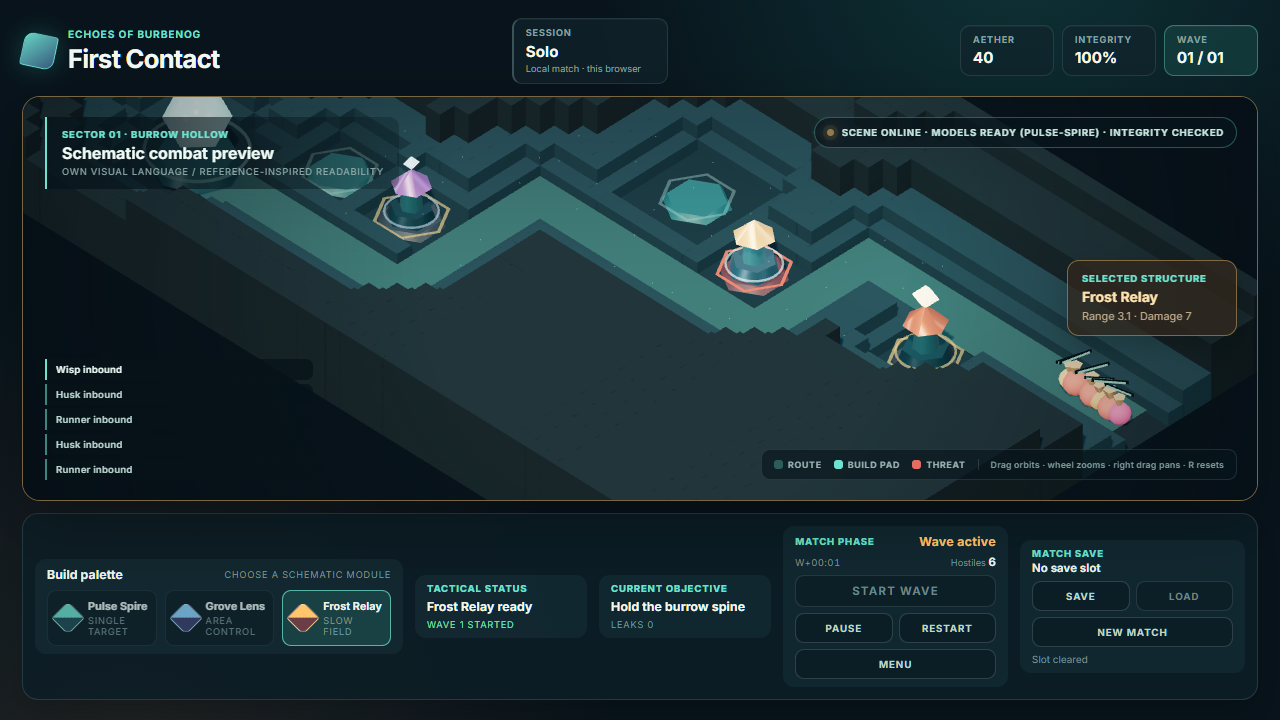
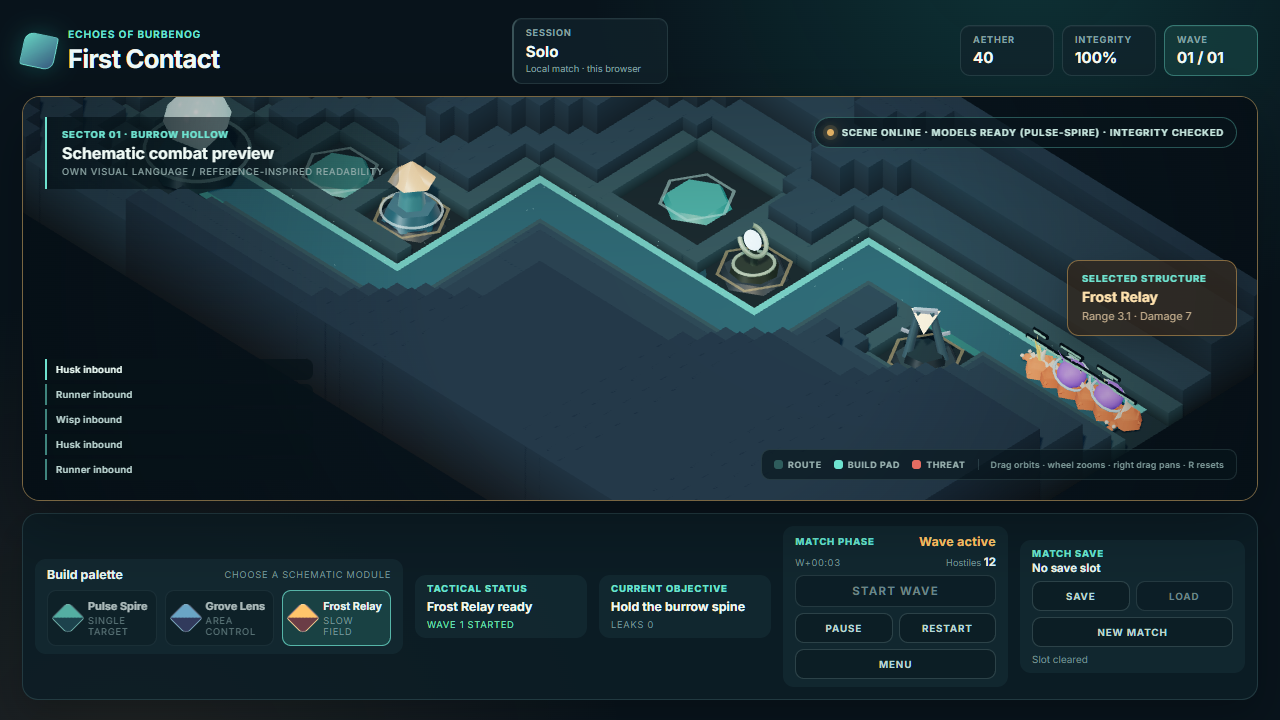
Принять 0022, 0023 и 0024 и привести документацию к виду
Три визуальные работы закрыты одним заходом. Проверено на текущем main со всеми тремя: typecheck, build зелёные, test:core те же victory/401/229, test:assets те же 11 красных, артефакт побайтово прежний, npm test 48/48 — это первый полный прогон после параллельного захода, до него каждая сессия проверяла в изоляции.

Скриншоты пересняты: старый вид не соответствует ни одному кадру, пять из них стоят в README. Кадр загруженного матча снят с подтверждённой загрузкой, прибывшей ровно на запрошенный тик 1838.

В контекст добавлены три строки состояния (вид врагов, башен, карты) и шесть открытых проблем: невидимый кристалл настоящей модели с 0009, seam padScreenPositions с координатами канваса под именем экранных, раздвоенная высота дороги между модулями, нечитаемость вида на игровом масштабе, исчерпанный бюджет форм и слипание хасков волной.

В решениях — почему параллельность по модулям сработала и чего не дала: границы держатся, чужой баг найден, общий тон не задан, и разведение шло против палитры врагов, а не против готового кадра.

diff --git a/docs/CONTEXT.md b/docs/CONTEXT.md
@@ -1,6 +1,6 @@
 # Echoes of Burbenog — CONTEXT
 
-> Последнее обновление: 2026-09-28 (`0021` принята, номера освобождены, документация закреплена за штабом)
+> Последнее обновление: 2026-09-28 (приняты `0022`–`0024`: вид врагов, башен и карты; `0021` закрыта)
 
 ## Порядок работ, названный владельцем 2026-09-28
 
@@ -29,7 +29,10 @@
 | Репозиторий | Публичный | GitHub remote открыт по решению владельца, ветка `main` синхронизирована; лицензия не выбрана, поэтому по умолчанию действует «all rights reserved» — `EOB-008` |
 | Документация | В актуальном состоянии | README, инструкции, архитектура, решения и план приведены к карте-коридору и камере; сессия `0019`+`0020` обновила все пять документов вместе с кодом |
 | Целевая платформа | Зафиксирована | Windows 10/11; performance budgets уточняются |
-| Gameplay prototype | Полный цикл в браузере | Bootstrap, pure simulation, placement по pads и combat presentation: запуск волны, движение, targeting, damage, victory/defeat в одном сценарии. С `0019` карта перестала быть плоскостью: одна дорога, ниши в массиве, решение о башне принимается |
+| Gameplay prototype | Полный цикл в браузере | Bootstrap, pure simulation, placement по pads и combat presentation: запуск волны, движение, targeting, damage, victory/defeat в одном сценарии. С `0019` карта перестала быть плоскостью: одна дорога, ниши в массиве, решение о башне принимается. **С `0022`–`0024` у каждой сущности и у коридора есть форма, а не оттенок:** три вида врага различимы силуэтом, три башни различимы силуэтом, канал читается светящимся кантом, камень различен по высоте через цвет вершин. Матч по-прежнему 20–35 секунд и одна волна — это следующая работа |
+| Вид врагов | Проверен | `0022`: `husk` широкий низкий танк 0.78 × 0.47 с ярусным панцирём, клинком на спине и головой ниже палубы; `runner` тонкий дротик 0.27 × 0.80 с наклоном вперёд, клювом, хвостом и ногами; `wisp` гранёный шар 0.86 × 0.92 в наклонённом ореоле, на хвосте почти над дорогой, корона из пяти шипов, единственный кто не касается земли корпусом. Поворот по ходу приходит из снапшота, полоса здоровья квадратна миру и своя длина у вида, части вида слиты в две геометрии (четыре меша, как и было), idle у каждого вида свой и гасится при reduced motion. Замерено: `enemyPositions` совпадают со снапшотом до 1e-3, `enemyBob` ровно 0 шесть замеров подряд при 16 живых, геометрия освобождается (15 объектов до волны и 15 после), замедление видно на A/B. **Не видно на игровом масштабе** — `EOB-034` |
+| Вид башен | Проверен | `0023`: `grove-lens` низкая широкая оправа с линзой внутри и просветом, наклонена назад; `frost-relay` открытая А-рама с гемом под перекладиной; `pulse-spire` сплошная вертикаль. У каждой своя палитра корпуса, масштаб, посадка и idle-жизнь. Луч выстрела идёт из мировой позиции светящегося кристалла, а не из фиксированной высоты над падом, поэтому уходит из видимой части башни; вспышка стала затухающей с пиком 6.6 и дыханием вниз от 2.4; `pulse-spire` только посадка через узел `seat` под группой, чтобы масштаб и наклон не спорили с наведением за ось. Плата: +3 вызова, +498 треугольников, +4 материала, программ шейдера столько же. **Найдено и не тронуто: кристалл загруженной модели не рисуется** — `EOB-031` |
+| Вид карты | Проверен | `0024`: идея «свет падает в канал». Канал — тёмное дно плюс светящийся кант 0.17 вдоль обеих кромок, обрывающийся у входа в нишу и у входа в камеру ядра, поэтому поворот читается как резкий поворот линии, а не смена оттенка. Камень: четыре высоты больше не делят два материала, различие живёт в цвете вершин (рампа 1.16 → 0.55 с остыванием в синий, подошва вчетверо темнее, верхняя кромка в 1.34 светлее), кромка террасы держится от любого угла. Выемки — пол темнее дороги, светящаяся рамка по краю ниши как единственная маркировка «здесь ставят башню», два кольца в камере ядра. Пыль сэмплирована вдоль дороги. Плата: +5 вызовов, +172 треугольника, +1 программа. Не тронуто и проверено: 78 блоков, 336 клеток, покрытие и кадр побитово как на `HEAD`, 24 азимута без единого перекрытия пада |
 | Карта-коридор | Проверен | Маршрут `burrow-spine`: 6 точек, 5 сегментов, 4 поворота, 26 единиц, ширина 1.2, карта 22×14, ядро в камере радиуса 1.6 в тупике и конец маршрута совпадает с ядром. Пять ниш, массив вырезан из одного растра 0.4 вместе с дорогой, 78 прямоугольников в двух мешах, террасы по глубине в камне (0.34/0.68/1.4/1.95). Валюта проектирования — покрытие коридора: угловая ниша 8.6 при Frost 3.1, самая дальняя 1.95 при Grove 2.4, то есть ниши не равны и расстановка решает (победа 340–647 тиков в зависимости от мест, поражение без башен на 753) |
 | Камера | Проверен | Орбита drag'ом, зум колесом (0.5–3.2), панорама правым drag'ом в плоскости карты, сброс на `R`, подсказка в легенде. Ортографическая, дистанция фиксирована: туман, near/far и тени настроены под неё. Масштаб меряется по открытым клеткам канала, а не по прямоугольнику вокруг него, и не меняется при повороте — поворот двигает кадр, колесо меняет масштаб намеренно. Кадр смещён на 5% вниз, чтобы ядро не открывалось под подписью сектора. `ResizeObserver` на сцене вместо `window.resize`: док меняет высоту сцены сам, и кадр уезжал. Состояние вида в seam (`mapGeometry.rig`, `frame`, `fit`) — часть входа в QA-сценарий |
 | Picking | Проверен | Один луч по нишам и камню вместе, ближайшее попадание решает: камень перед нишей означает промах. Плоскость с фиксированным радиусом 0.85 и её `techdebt`-заметка убраны — при управляемой камере это была бы постройка в невидимом месте. Террасы массива симметричны (высота зависит только от глубины в камне), иначе стена вставала бы поперёк дороги при повороте; измерено: на 0–180° ни одна из пяти ниш ни разу не перекрыта скалой |
@@ -81,7 +84,13 @@
 | EOB-009 | P1 | Решить, остаётся ли Go/Wails только упаковкой или также используется для dedicated server. С `0017` вопрос измерим: сессия на `node:http` держит комнату и 20 тиков/с на комнату без единой зависимости, а transport выбран как SSE плюс POST вместе с отклонённой альтернативой `ws` |
 | EOB-010 | P2 | Session-level replay (restore из snapshot против command log) не решён: client QA replay работает на command log + seed, и `0015` закрепил это же как ответ для локального слота, но для server-сессии нужен отдельный выбор |
 | EOB-012 | P2 | Усилить E2E: content-bound selectors, entityId-сопоставление позиций, реальные route-счётчики, typed event и console assertions |
-| EOB-014 | P0 | Разнести монолитный `src/main.ts` на модули презентации. **Выдана как `0021`**: `src/client/map.ts`, `towers.ts`, `enemies.ts`, `combat-fx.ts`, `shared.ts`. Причина — не размер файла, а блокировка: владелец ведёт карту, башни и врагов параллельно, все три правят один файл. Общий модуль существует ради `PROBE_WEIGHTS` и `disposeInstance`, боевые эффекты выделены отдельно, потому что вспышка убийства и луч выстрела нуждаются в позиции чужого вида. `__ECHOES_DEBUG__` сохраняется целиком — 93 ссылки из сценариев. **Закрыта `0021`:** `main.ts` 4559 → 3347 строк, пять модулей, поведение не тронуто, 48/48 сценариев зелёные; три параллельные работы по модулю теперь не сталкиваются за один файл |
+| EOB-014 | P0 | Разнести монолитный `src/main.ts` на модули презентации. **Закрыто `0021` и проверено `0022`–`0024`**: `src/client/map.ts`, `towers.ts`, `enemies.ts`, `combat-fx.ts`, `shared.ts`. Причина — не размер файла, а блокировка: владелец ведёт карту, башни и врагов параллельно, все три правят один файл. Общий модуль существует ради `PROBE_WEIGHTS` и `disposeInstance`, боевые эффекты выделены отдельно, потому что вспышка убийства и луч выстрела нуждаются в позиции чужого вида. `__ECHOES_DEBUG__` сохраняется целиком — 93 ссылки из сценариев. **Закрыта `0021`:** `main.ts` 4559 → 3347 строк, пять модулей, поведение не тронуто, 48/48 сценариев зелёные; три параллельные работы по модулю теперь не сталкиваются за один файл |
+| EOB-031 | P1 | **Кристалл загруженной модели `pulse-spire` не рисуется.** Найдено на приёмке `0023`, не её регрессия: узел жив (`visible`, эмиссия 2.4, мировая позиция верная, клип играет, поза доходит до seam), процедурная замена рисует гем. Отсутствует и на принятом снимке `wave-combat-midwave.png` до `0022`–`0024`, то есть баг с `0009`. Итог для игры: у настоящей башни нет видимой вспышки при выстреле, остаётся только луч. Не чинилось: конвейер ассетов был заморожен, а по симптому не сказать, чья это часть — модель, клон или подмена |
+| EOB-032 | P2 | **`padScreenPositions` в seam отдаёт координаты относительно канваса, а не окна.** Обработчик клика ждёт координаты окна и вычитает `rect.left/rect.top`, поэтому продукт и тесты правы, а имя поля вводит в заблуждение. Единственный потребитель в репозитории — хелпер `clickPad` в сценариях — компенсирует сложением бокса, то есть контракт известен только из одного места вызова. На этом попался штаб при съёмке кадров. Лечится одной строкой в `projectPadToCanvas` и снятием компенсации в хелпере, но правка seam ломает 48 сценариев, поэтому это отдельная работа вместе с ними |
+| EOB-033 | P2 | **`ENEMY_BASE_Y` и `PATH_Y` — один факт в двух модулях.** `0022` перевела высоту тела врага на высоту ленты дороги (0.28 → 0.08), но лента принадлежит `map.ts` как `PATH_Y`, а файл был чужой, поэтому число зашито вручную. Следствия уже видны: кольцо убийства опустилось с 0.36 до 0.16, попадание выстрела с 0.58 до 0.38. Правильная форма — экспорт из `map.ts` и передача в `createEnemies`, то есть правка двух модулей и точки сборки. Причина долга моя: граница модулей проведена по строкам кода, а не по фактам |
+| EOB-034 | P2 | **Вид на игровом масштабе не читается.** Замерено на листе-образце (`tools/look`): при 50.5 пикселя на единицу, то есть при том масштабе, с которого открывается матч, существо — цветное пятно, и самым заметным элементом врага оказывается его полоска здоровья. Работа `0022` над силуэтами на этом масштабе не окупается ничем. Либо камера должна быть ближе к бою, либо силуэты должны читаться в пятне — что из двух, решает владелец, и это разговор о стиле, а не задача |
+| EOB-035 | P2 | **Бюджет форм исчерпан: пять объектов на две категории силуэта.** `husk` широкий низкий, `grove-lens` — тоже низкая широкая оправа; `runner` высокий, `frost-relay` — А-рама, `pulse-spire` — сплошная вертикаль. Столкновение `grove-lens` с `wisp` сессии уже развели, но категорий всего две, и следующий объект снова упрётся. Плюс найдено на живом кадре: `grove-lens` ушёл в бледный шалфей, разводя его с палитрой врагов, и на этом фоне он сливается с бирюзовым камнем карты — разведение шло против палитры врагов, а не против готового кадра |
+| EOB-036 | P2 | **Семь хасков слипаются в пятно.** Контент, а не вид: волна спавнит их каждые 14 тиков при скорости 0.72, между ними 0.5, а существо шириной 0.78. Подтверждено на кадре середины волны. Никакая работа над видом врага это не чинит, пока не изменится волна |
 | EOB-016 | P2 | Asset contract валидирует только модели, собранные генератором, и проверяет структуру, а не источник; модели из внешнего редактора потребуют отдельного контура проверки и provenance |
 | EOB-017 | P2 | Замер fixed-step clock в E2E идёт сразу за fullPage screenshot и меряется через round-trip: stall >500 ms даёт ложный fast-forward. Наблюдалось на холодном прогоне и на загруженной машине; лечится переносом измерения внутрь страницы. С `0014` pause/resume переведены на page-side отметки, с `0016` — сценарий Load; остальные измерения часов в suite надо проверить тем же способом. С `0017` 29 сценариев suite ждали canvas с дефолтными 5 s — это та же ошибка формы, только про boot, и она уехала в `EOB-025`. С fix `0018` закрыт ещё один случай того же класса: сценарий подтверждённого `New match` держал свежую preparation «на нулевом тике» решёткой кадров в 1 мс, а это утверждение о том, сколько времени занимает чтение извне; прибытие теперь читается отметкой в странице, и решётка из сценария слота ушла. Соседний сценарий — подтверждённый `New match` в `clears the slot only after a confirmed New match…` — остался на `QA_FROZEN_FRAME_SECONDS` и остаётся кандидатом на ту же правку |
 | EOB-020 | P3 | У тика в слота сохранения нет верхней границы: content её не задаёт, а правдоподобный, но огромный тик даёт долгую пересборку вместо отказа. Видно по идущему тику и badge прогресса, `New match` прерывает в любой момент. Если понадобится, граница берётся из content, а не выдумывается. С `0016` вход показывает тик слота до того, как игрок что-то с ним сделает, а стирание требует второго нажатия — но сама граница по-прежнему не введена и задача открыта |
@@ -172,6 +181,7 @@
 | 2026-09-28 | **Закрыты `0019` карта-коридор и `0020` камера с честным picking.** Коридор: маршрут `burrow-spine`, 6 точек, 4 поворота, 26 единиц, ширина 1.2, карта 22×14, ядро в камере радиуса 1.6 в тупике, пять ниш; массив вырезан из одного растра 0.4 вместе с дорогой, поэтому стена не может встать на дорогу, а ниша — оказаться замурованной, и обе карты строятся из одной истины. **Валюта проектирования — покрытие коридора, и она разная:** `niche-corner` 8.6 при Frost 3.1 (угол видит две дороги), `niche-bend` 8.8, `niche-mouth` 7.1, `niche-heart` 4.75, `niche-deep` 4.35, а у той же дальней ниши Grove 2.4 видит 1.95 — то есть ниши не равны, и расстановка снова решение: победа за 340–647 тиков в зависимости от мест, поражение без башен на 753. **Камера:** орбита drag'ом, зум колесом 0.5–3.2, панорама правым drag'ом в плоскости карты, сброс на `R`; ортокамера с фиксированной дистанцией, потому что туман, near/far и тени настроены под неё. **Масштаб не плывёт при повороте** — поворот двигает кадр, колесо меняет масштаб намеренно; плата названа в `EOB-029`. **Picking стал честным:** один луч по нишам и камню вместе, камень перед нишей означает промах, плоскость с радиусом 0.85 и её `techdebt`-заметка убраны. Отсюда террасы массива стали симметричными (высота зависит только от глубины в камне): асимметрия «нижний берег ниже, дальний выше» красива ровно с одного угла и ставит стену поперёк дороги при первом же повороте; измерено на 0–180°, что ни одна из пяти ниш ни разу не перекрыта скалой. **Кадр меряется по открытым клеткам канала, а не по прямоугольнику вокруг него** — прямоугольник почти весь камень, и подгонка под него либо срезала дорогу, либо отодвигала камеру так, что карта становилась маркой; та же ошибка стоила отдельного витка, потому что выглядела как «камера едет». **Найденная сессией ошибка в своей же реализации:** BFS на `pop()` — это обход в глубину, поле расстояний до.open оказалось длиной обхода, и террасы вышли змейкой; обход переписан на очередь с движущимся индексом. И вторая: `//` в `src/styles.css` — не комментарий, минификатор съедает следующий селектор, `npm run build` падает с `Invalid empty selector`, а `npm test` остаётся зелёным, потому что Playwright поднимает dev-сервер; ловушка записана в `AGENTS.md`. Кадр сцены пересчитывается по `ResizeObserver`, а не по `window.resize`: док меняет высоту сцены сам, и кадр уезжал. Evidence: `typecheck`, `build`, `test:core` — новые значения `status victory, tick 401, gold 229`, `test:assets` — те же 11 красных проверок, артефакт `sha256:32befa7a…` побайтово прежний, `npm test` 48/48 дважды подряд, `npx playwright test --repeat-each=2` 96/96, `git status` чистый, core-поля не расширялись, изменены только `src/game-core/scenario.ts`, `src/main.ts`, `src/styles.css`, `index.html`, `tests/smoke.spec.ts`, `scripts/check-simulation.ts` и screenshots. **Роль исправлена по требованию владельца:** эта сессия отработала кодовой там, где должна была быть штабом; роль штаба и механика выдачи заданий записаны в `AGENTS.md` и `PLAN`. Документация приведена к коду целиком: README, `AGENTS.md`, `PLAN`, `CONTEXT`, решение в `DECISIONS.md` и две поправки в `ARCHITECTURE.md`. Принято |
 | 2026-09-28 | **Кодовая сессия сдала `0021`: `src/main.ts` разбит на модули презентации, поведение не менялось.** `main.ts` 4559 → 3347 строк, пять новых файлов в `src/client/`: `map.ts` 593, `towers.ts` 493, `combat-fx.ts` 185, `enemies.ts` 133, `shared.ts` 97. **Причина разбивки — не размер, а блокировка:** владелец ведёт карту, башни и врагов тремя параллельными сессиями, и все три правят один файл. **Боевые эффекты вынесены в четвёртый домен**, потому что вспышка убийства рождается из события врага, луч выстрела — из события башни, и оба нуждаются в позиции чужого вида: `combat-fx` получает две позиции и не знает, что такое вид. **Общий блок существует ради двух вещей** — `PROBE_WEIGHTS` и `disposeInstance` нужны всем трём доменам, а пробра передаётся в него одним `setEnvironmentTexture` сразу после `PMREMGenerator`, потому что материал обязан владеть пробой по имени. **Часы не размножались:** `elapsed` и `presentationTime()` передаются модулям числами, а `reducedMotion` — флаг, который страница сообщает всем доменам одним местом; копия часов в двух модулях — это уже оплаченный класс дефекта из `0012`. **Отладочный объём собирает страница:** модули отдают свои чтения, `main` складывает тот же `__ECHOES_DEBUG__` с теми же именами — на него ссылаются 93 места в сценариях, поэтому seam это контракт, а его форма не тронута. Порядок кадра сохранён (snapshot → анимация доменов → `renderer.render`); единственный сдвиг — ядро рисуется с падами, а не после лучей, и оно не делит состояния ни с одним соседом. Найденная сессией ошибка в своей же реализации: в `enemies.animate` забыли обнулять `enemyBobOffset` в начале кадра, и показатель bob'а стал монотонно растущим вместо покадрового. Проверки: `typecheck`, `build`, `test:core` — те же `status victory, tick 401, gold 229`, `test:assets` — те же 11 красных проверок, артефакт `sha256:32befa7a…` побайтово прежний, `npm test` 48/48. Изменены только `src/main.ts` и пять новых файлов в `src/client/`, плюс `docs/ARCHITECTURE.md` и этот файл; core, content, протокол, сервер, `index.html`, стили и `tests/smoke.spec.ts` не тронуты, новых тестов нет. **Принята штабом.** Доказательство, что картинка не изменилась, попиксельное: `main.ts` подменён на версию из `HEAD`, снят тот же кадр на запиненном тике 205, PNG побайтово идентичен (349 329 B и 371 974 B на соседних тиках); совпали `objectCount`, весь `mapGeometry` с покрытием ниш, 12 ролей проб, `commandPlan`, позиции 3 башен и 14 врагов, `towerModels` с позой клипа, суммы событий и `shotsFired`. **Замечание для трёх следующих работ:** тихая ошибка с `reducedMotion` — ядро продолжало пульсировать при включённом reduced motion — поймана сравнением кадров, а не 48 сценариями: они проверяют `enemyBob` и вспышки, но не пульс ядра. На этом классе работ сравнение кадров полезнее набора сценариев. Плохие решения, зафиксированные и не тронутые: `disposeInstance` освобождает геометрию, которой не владеет, и спасает только отдельный `release()` у model-view; `upgradeWithModels` считает слот башни заново через `indexOf` в порядке вставки, поэтому «слот — это порядок постройки» перестаёт быть верным после исчезновения любой башни, то есть поломается, когда появится продажа или апгрейд на месте |
 | 2026-09-28 | **Освобождены номера, документация закреплена за штабом.** Замороженный блок мультиплеера, internet services и desktop переехал с 0023-0028 на 0030-0035: он держался за номерами из исключения в нумерации, а исключение снято, теперь правило простое — следующий номер это последний принятый плюс один, и отложенные работы номеров не занимают. Плата оказалась сметной: 18 ссылок, из них пять в историческом журнале, их не переписывали, потому что журнал записывает, что тогда было. Черновик по первому пункту блока переименован в docs/tasks/0030-match-rules-and-economy.md. Решение владельца от 2026-09-28: кодовая сессия не трогает проектную документацию (PLAN, CONTEXT, DECISIONS, ARCHITECTURE, AGENTS, чужие файлы задач), отчёт пишется целиком в свой файл задачи, штаб читает его, проверяет и сам обновляет документацию. Причина не в порядке: сессии идут параллельно по разным модулям, и общий файл документации стал бы местом конфликта. Коммиты и push разрешены на постоянной основе |
+| 2026-09-28 | **Приняты `0022` вид врагов, `0023` вид башен, `0024` оформление карты — три параллельные сессии, по одному модулю каждая.** Механизм параллельности оправдал себя: три сессии тронули ровно три своих файла (`enemies.ts`, `towers.ts`, `map.ts`), `main.ts`, `shared.ts`, `combat-fx.ts`, ядро, скрипты, стили и тесты не тронуты ни одной строкой. `0022` — три существа вместо трёх оттенков одного шара: `husk` широкий низкий 0.78×0.47 с ярусным панцирем, `runner` тонкий дротик 0.27×0.80, `wisp` гранёный шар 0.86×0.92 в наклонённом ореоле, не касающийся земли; плюс поворот по ходу из снапшота, полоса квадратна миру и своя длина у вида, `ENEMY_BASE_Y` переведён на высоту ленты дороги 0.28 → 0.08. `0023` — три силуэта, луч выстрела идёт из видимого кристалла вместо фиксированной высоты над падом, вспышка стала затухающей с пиком 6.6, дыхание ушло вниз от 2.4, `pulse-spire` только посадка через узел `seat` под группой. `0024` — свет падает в канал: тёмное дно, светящийся кант 0.17 по обеим кромкам, обрыв у входа в нишу и у камеры ядра; четыре высоты камня больше не делят два материала, различие живёт в цвете вершин с рампой 1.16 → 0.55 и подкраской граней. **Столкновение, найденное между сессиями:** `0022` закрыла `wisp` ореолом, `grove-lens` сел на него же — башня не отличалась от врага; `0023` развела формой (кольцо → дуга 270°) и цветом (бледный шалфей), чужой файл не тронув. **Баг, найденный `0023` в своей области и не тронутый:** кристалл загруженной GLB-модели не рисуется — не на `HEAD` и отсутствует на принятом снимке, узел жив (`visible`, эмиссия 2.4, позиция верная, клип играет), то есть у настоящей `pulse-spire` нет видимой вспышки при выстреле с `0009`; причина в конвейере ассетов, который был заморожен. **Долг, названный `0022`:** `ENEMY_BASE_Y = 0.08` — это высота ленты дороги, а владеет ею `map.ts` как `PATH_Y`; число зашито в чужом по смыслу файле, потому что граница модулей проведена по строкам кода, а не по фактам. Проверено штабом на текущем `main` со всеми тремя работами: `typecheck`, `build` зелёные, `test:core` — те же `status victory, tick 401, gold 229`, `test:assets` — те же 11 красных, артефакт побайтово прежний, `npm test` 48/48. Найдено при приёмке: `padScreenPositions` в seam отдаёт координаты **относительно канваса**, а обработчик клика ждёт координаты окна, и поле называется «экранными» — единственный потребитель в репозитории, хелпер `clickPad` в тестах, это компенсирует сложением бокса; продукт и тесты правы, имя поля вводит в заблуждение, и на этом попался штаб при съёмке кадров. **Скриншоты** `docs/screenshots/` пересняты: старый вид не соответствует ни одному кадру, пять из них стоят в `README.md`; `entry-screen-empty`, `entry-to-victory`, `wave-combat-midwave`, `wave-combat-victory`, `vertical-slice-replay-reset`, `vertical-slice-match-load` — с текущего дерева, последний с подтверждённой загрузкой, прибывшей ровно на запрошенный тик 1838 |
 | 2026-09-27 | **Владелец остановил работу над мультиплеером.** Слой сессий не виден игроку, а за три дня у него одна карта, одна волна, 16 врагов, три башни, ноль снарядов, ноль звука и победа за две минуты. Мультиплеер, internet services и desktop (`0019`–`0024`) **заморожены** вместе со своими номерами, и пятая перенумерация отменена: на них ссылаются журнал и решения, а переписать историю ссылок дороже, чем держать исключение; исключение записано в шапке `PLAN`. Причина перекоса названа прямо: правило «каждое изменение должно иметь проверяемый результат» плюс запрет на визуальные проверки как на критерий дают доказуемое и невидимое, а `EOB-003` — «выбрать приоритетный subset механик из research brief» — висит открытым с первого дня, то есть сначала был выбран transport, а не игра. **Открыт игровой слой** с обратным порядком приоритетов: `0025` карта-коридор (одна дорога с поворотами, стены образуют ниши, строить только в нишах и не на дороге, ядро в конце; валюта проектирования — сколько коридора видит место), `0026` камера и честный picking вместо плоскости с фиксированным радиусом, `0027` прогрессия башни (уровни 1→3 и развилка, волк за убийство при пропуске), `0028` волны и сложность. Решения владельца, которые легли в задачи: убийство даёт золото, золото тратится на башни; башни на фиксированных местах, свободной расстановки нет; пады никогда не стоят на дороге; камера должна работать и управляться, «не зря у нас 3D». Отдельно: `test:core` перестаёт быть контрактом — `tick 323, gold 229` были артефактом обвязки и требовали перерезания на каждом изменении контента; требование красного прогона для слоя контента отменено, там критерий — что в это интересно играть. `PLAN` переписан из трекера-склада в трекер: 140 строк и 78 КБ дублирующих отчёты превратились в 98 строк и 8.7 КБ, всё содержательное ушло в файлы задач, где и было; правило 16 запрещает возвращать отчёты в `PLAN`.
 
 ## Структура проекта

diff --git a/docs/PLAN.md b/docs/PLAN.md
@@ -7,8 +7,8 @@
 > `docs/tasks/` (отчёты прошлых задач).
 >
 > Нумерация одна: сквозная, по порядку выдачи. Следующий номер — последний принятый плюс один.
-> Последний принятый — `0021`. Выданы `0022`, `0023`, `0024` одновременно, тремя параллельными
-> сессиями. Отложенные работы номеров не занимают.
+> Последний принятый — `0024`. `0022`, `0023` и `0024` выданы одновременно и приняты одним заходом.
+> Отложенные работы номеров не занимают.
 
 ## Что это
 
@@ -38,7 +38,7 @@ reconnect, генератор GLB с бюджетами, экран входа, 
 subset механик из research brief») висит открытым с первого дня: сначала был выбран транспорт, а не
 игра.
 
-## Что сделано — 0001…0021
+## Что сделано — 0001…0024
 
 Принято штабом, всё на месте. Отчёты и разборы — по файлу на задачу в `docs/tasks/`, хронология по
 дням — в `docs/CONTEXT.md`.
@@ -64,39 +64,31 @@ subset механик из research brief») висит открытым с пе
 - [x] 0019 — карта-коридор: одна дорога с поворотами, пять ниш в массиве, валюта — покрытие коридора
 - [x] 0020 — камера и честный picking: орбита, зум, панорама, сброс; камень перед нишей означает промах
 - [x] 0021 — разбиение клиента на модули презентации: `main.ts` 4559 → 3347 строк, пять модулей в `src/client/`
+- [x] 0022 — вид врагов: три различимых силуэта вместо трёх оттенков одного шара
+- [x] 0023 — вид и анимация башен: три силуэта, луч из кристалла, затухающая вспышка
+- [x] 0024 — оформление карты: свет в канале, кант по кромке, камень через цвет вершин
 
 Фазы как способ группировки убраны: их было одиннадцать, а работы четыре задачи, и при отложенных
 задачах фазовые номера начали спорить с номерами задач.
 
 ## В работе
 
-Последний принятый — `0021` (разбиение клиента на модули). Следующая выдача — `0022`, номер
-свободен.
+Последний принятый — `0024`. Следующая выдача — `0025`, номер свободен.
 
-- **Перед выдачей — разговор, не задача.** Владелец определяет стиль и идею игры. Три работы ниже
-  выданы без него, по решению владельца; риск назван вслух: три сессии без общего стиля дадут три
-  разные эстетики, и согласовывать их придётся после.
-- **`0022`–`0024` — три параллельные сессии, по модулю каждая.** Каждая владеет ровно одним
-  файлом в `src/client/` и не трогает ничего больше. Общий код (`shared.ts`), точка сборки
-  (`main.ts`), боевые эффекты, ядро, контент, стили, скриншоты и документация заморожены для всех
-  трёх — иначе они начнут драться за один файл, ради чего всё и затевалось.
-
-  | Номер | Работа | Владеет | Порт |
-  |-|-|-|-|
-  | `0022` | вид врагов | `src/client/enemies.ts` | 5174 |
-  | `0023` | вид и анимация башен | `src/client/towers.ts` | 5175 |
-  | `0024` | оформление карты | `src/client/map.ts` | 5176 |
-
-  Три места, где сессии могут помешать друг другу, и как это закрыто: `combat-fx.ts` импортирует
-  `ENEMY_BASE_Y` из `enemies.ts` — имя константы менять нельзя, значение можно; `main.ts` — общая
-  точка сборки, нужен новый крючок, значит сессия останавливается и пишет в отчёт; геометрия
-  коридора в `scenario.ts` заморожена, потому что на покрытии ниш держится смысл выбора башни, и
-  её сдвиг обесценил бы работу `0023` вслепую.
+- **Вид игры больше не «три мнения врозь», но и не стиль.** Три работы сошлись на форме
+  (`0022`/`0023` развели силуэты), и в этом смысле параллельность сработала. Но стиль как таковой не
+  был определён, и это видно на живом кадре, а не в отчётах. Владелец это смотрит сам.
+- **Что параллельность доказала и чего не дала.** Доказала: границы по модулям держатся — три сессии
+  тронули ровно три своих файла, `main.ts`, `shared.ts`, `combat-fx.ts`, ядро, скрипты, стили и тесты
+  не тронуты; сессия нашла чужой баг в своей области и не полезла чинить чужое. Не дала: общего
+  тона, потому что его и не было задано, и общего прогона — `main` какое-то время был нерабочим, все
+  три ушли в изоляцию, и первый полный прогон со всеми тремя работами сделал штаб уже после.
 - Экономика, прогрессия башни, волны, звук — в очереди, **без номеров**. Номера свободны
-  (`0025`–`0029`), но выдавать их имеет смысл только под то, что владелец назвал.
+  (`0025`–`0029`).
 
-Принято ранее: `0019` — карта-коридор, `0020` — камера и честный picking. Все четыре закрыты числами
-и скриншотами ниже.
+Принято ранее: `0019` — карта-коридор, `0020` — камера и честный picking, `0021` — разбиение клиента,
+`0022`–`0024` — вид врагов, башен и карты. Подробности — в соответствующих файлах задач и в
+`docs/CONTEXT.md`.
 
 ## Как запустить и поиграть
 
@@ -133,7 +125,8 @@ npm run server       # только для комнаты, второй терм
 ## Правила
 
 1. Берётся первая работа из раздела «В работе», которая ещё не выдана. Сейчас выдаче не подлежит
-   ничего: `0021` принята, а перед `0022` владелец определяет стиль и идею игры разговором.
+   ничего: `0024` принят, а что делать дальше — определяет владелец, и по его же порядку первым
+   идёт разговор о стиле и идее игры.
 2. Основная сессия — штаб: обсуждает, решает и выдаёт задания. Код пишет кодовая сессия, одна на
    задание. Механика выдачи и форма отчёта — `D:\GitHub\knowledge\session-tasks.md`. Команда запуска
    кодовой сессии — одна строка: `<папка репозитория>. Читай docs\tasks\файл-задания.md`.

diff --git a/docs/DECISIONS.md b/docs/DECISIONS.md
@@ -329,3 +329,19 @@
 **Альтернативы:** две дороги вместо коридора; фиксированный радиус picking с плоскостью; автоподгонка кадра под канал при повороте; асимметричные террасы по стороне от камеры; камера, которая при повороте медленно отдаляет карту.
 
 **Trade-off:** при управляемой камере игрок может довести обзор до угла, где 1–2 ниши уйдут за край кадра; вернуть их можно зумом, измерено — на 2.44× (EOB-029). Альтернатива была противоположная: вписывать кадр в канал при каждом повороте, но тогда карта молча мельчает под рукой и игрок теряет ориентацию, а молчаливое изменение масштаба хуже срезанного угла, о котором можно сказать. **Побочный класс ошибок, который сессия выдала дважды:** обход в ширину, сделанный через pop() (это обход в глубину, и «поле расстояний» оказывается длиной обхода), и // в CSS вместо /* */ (минификатор съедает следующий селектор, сборка падает, а pm test зелёный, потому что Playwright поднимает dev-сервер). Обе ловушки записаны там, где их встретит следующая сессия.
+
+---
+
+## Параллельные визуальные работы по одному модулю
+
+**Решение.** Вид игры разбирается на три независимые работы — враги, башни, карта — и выдаётся одновременно тремя сессиями. Каждая владеет ровно одним файлом в `src/client/`. Общий код (`shared.ts`), точка сборки (`main.ts`), боевые эффекты, ядро, контент, стили, скриншоты и документация заморожены для всех трёх. Нужно что-то из замороженного — сессия останавливается и пишет в отчёт, а не правит. Каждая получает свой порт и свою папку для скриншотов. Документацию после сдачи ведёт штаб, отчёт пишется целиком в файл задачи.
+
+**Почему так.** Разбивка `main.ts` на модули делалась именно ради этого: пока рендер в одном файле, три работы по виду физически не могут идти одновременно. Проверено на приёмке — три сессии тронули ровно три своих файла, и ни одна строчка в `main.ts`, `shared.ts`, `combat-fx.ts`, ядре, скриптах, стилях и тестах не изменилась.
+
+**Как закрывались столкновения.** Заранее назначено три места, где работы могут столкнуться. `combat-fx.ts` импортирует `ENEMY_BASE_Y` из `enemies.ts` — имя константы менять нельзя, значение можно, и это сработало: сессия башен им не воспользовалась, а числовой сдвиг высоты прошёл без конфликта, потому что форма строки не менялась. Геометрия коридора заморожена, потому что на покрытии ниш держится смысл выбора башни, и её сдвиг обесценил бы работу по башням вслепую. Столкновение, которого не предвидели, — форма: `0022` закрыла `wisp` ореолом, `grove-lens` сел на него же. Развёл тот, кто владел своим файлом, формой и цветом, чужой файл не тронув.
+
+**Что механизм дал и чего не дал.** Дал границы и дал находку: сессия башен нашла в своей области баг, который старше разбивки на два дня, — кристалл загруженной модели не рисуется, то есть у настоящей башни нет видимой вспышки при выстреле с `0009`. Не дал общего тона: стиль как таковый не был определён, и три сессии изобрели его каждая своя. Разведение шло против палитры врагов, а не против готового кадра, и `grove-lens`, уведённый в бледный шалфей, на бирюзовой карте сливается с камнем. Решение о стиле осталось за владельцем, и оно впереди.
+
+**Цена параллелизма, названная честно.** Три сессии в одной ветке означают, что `main` какое-то время не собирается, и все три вынуждены проверять в изоляции. Первый полный прогон со всеми тремя работами сделал штаб уже после сдачи. Правило «коммитить только свои файлы поимённо» и `git add -A` в запрете — не формальность: при общем дереве одна широкая команда уносит чужую работу. Одна сессия отказалась делать rebase из-за чужих незакоммиченных правок и не стала ничего трогать — это и есть то, для чего правило нужно.
+
+**Отвергнуто.** Пустить все три сначала, раздав словарь форм и палитру заранее: словарь пришлось бы изобретать штабу без картинки перед глазами, и он оказался бы ровно тем, что сломался, — несуществующая в коде таблица. Второй отвергнутый вариант — последовательно, по одному модулю: дольше, и стиль всё равно пришлось бы выводить из первого, а не из трёх сразу.

diff --git a/docs/tasks/0023-tower-look.md b/docs/tasks/0023-tower-look.md
@@ -1,6 +1,6 @@
 # 0023 — Вид и анимация башен
 
-> Статус: на проверке
+> Статус: **принята** (штаб, 2026-09-28)
 > Приоритет: P0
 > Идёт параллельно с `0022` (враги) и `0024` (карта)
 

diff --git a/docs/tasks/0024-map-look.md b/docs/tasks/0024-map-look.md
@@ -1,6 +1,6 @@
 # 0024 — Оформление карты
 
-> Статус: на проверке
+> Статус: **принята** (штаб, 2026-09-28)
 > Приоритет: P0
 > Идёт параллельно с `0022` (враги) и `0023` (башни)
 

diff --git a/docs/tasks/0022-enemy-look.md b/docs/tasks/0022-enemy-look.md
@@ -1,6 +1,6 @@
 # 0022 — Вид врагов
 
-> Статус: на проверке
+> Статус: **принята** (штаб, 2026-09-28)
 > Приоритет: P0
 > Идёт параллельно с `0023` (башни) и `0024` (карта)
 
